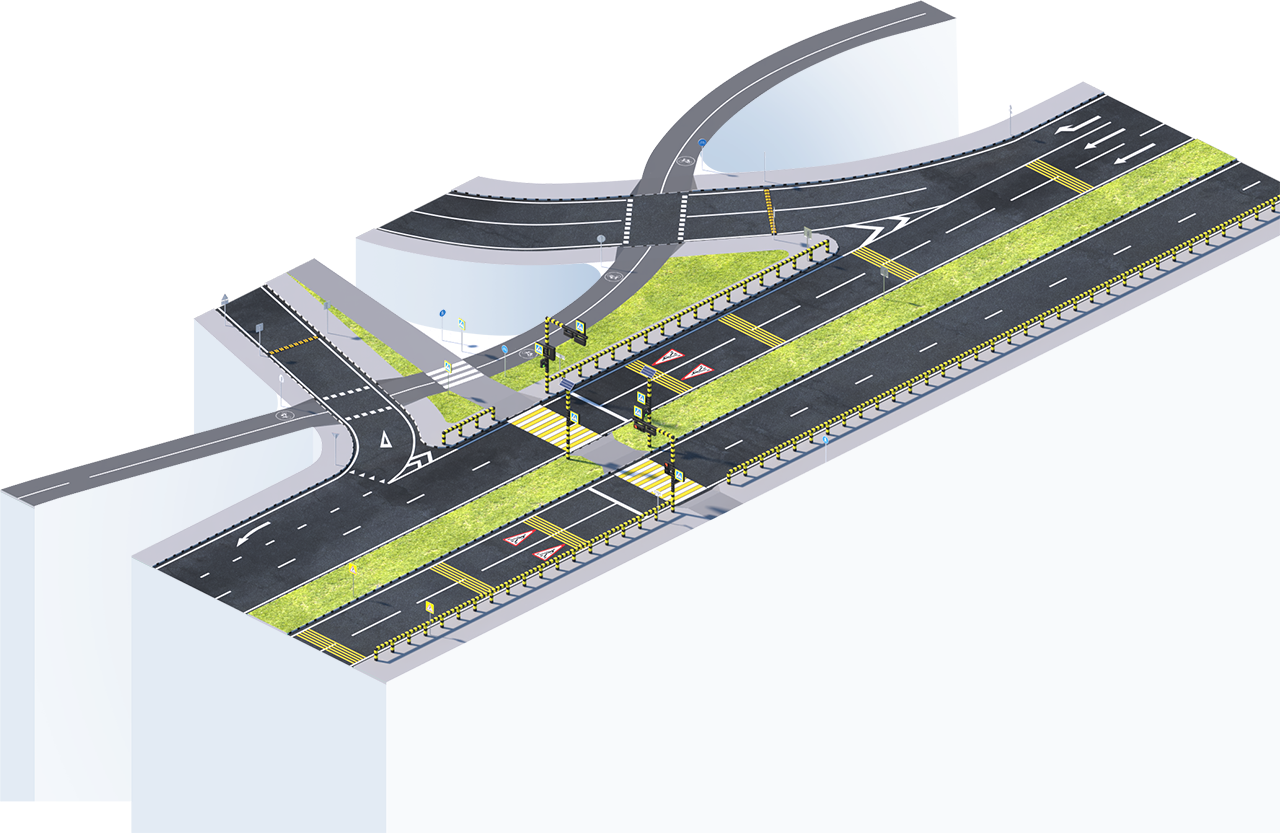
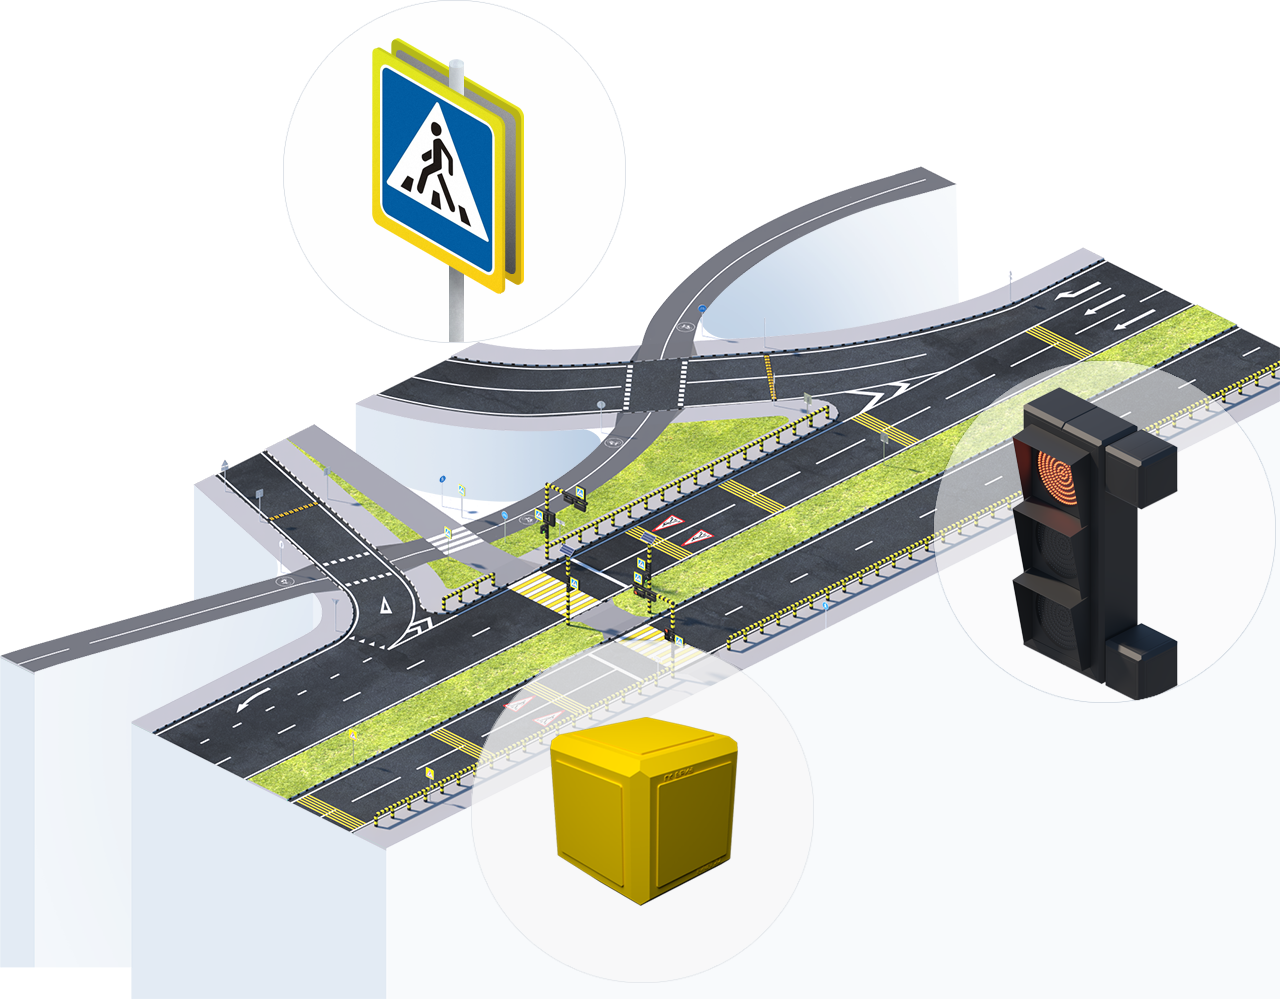
replace safedrive img, upd styles

diff --git a/css/style.css b/css/style.css
@@ -2471,6 +2471,12 @@ textarea:focus {
   top: 12%;
   right: 2%;
 }
+@media (min-width: 1200px) {
+  .content__safe-drive #safedrive-message-01 {
+    top: 6%;
+    right: 3%;
+  }
+}
 .content__safe-drive #safedrive-message-02 {
   top: 0;
   left: 0;
@@ -2480,6 +2486,11 @@ textarea:focus {
 .content__safe-drive #safedrive-message-03 {
   bottom: 10%;
   right: 20%;
+}
+@media (min-width: 1200px) {
+  .content__safe-drive #safedrive-message-03 {
+    right: 17%;
+  }
 }
 .content__safe-drive #safedrive-message-04 {
   bottom: 5%;

diff --git a/css/style.less b/css/style.less
@@ -2365,6 +2365,10 @@ textarea:focus {
         #safedrive-message-01 {
 					top: 12%;
 					right: 2%;
+					@media (min-width: 1200px) {
+						top: 6%;
+						right: 3%;
+					}
         }
         #safedrive-message-02 {
 					top: 0;
@@ -2375,6 +2379,9 @@ textarea:focus {
         #safedrive-message-03 {
 					bottom: 10%;
 					right: 20%;
+					@media (min-width: 1200px) {
+						right: 17%;
+					}
         }
         #safedrive-message-04 {
 					bottom: 5%;
